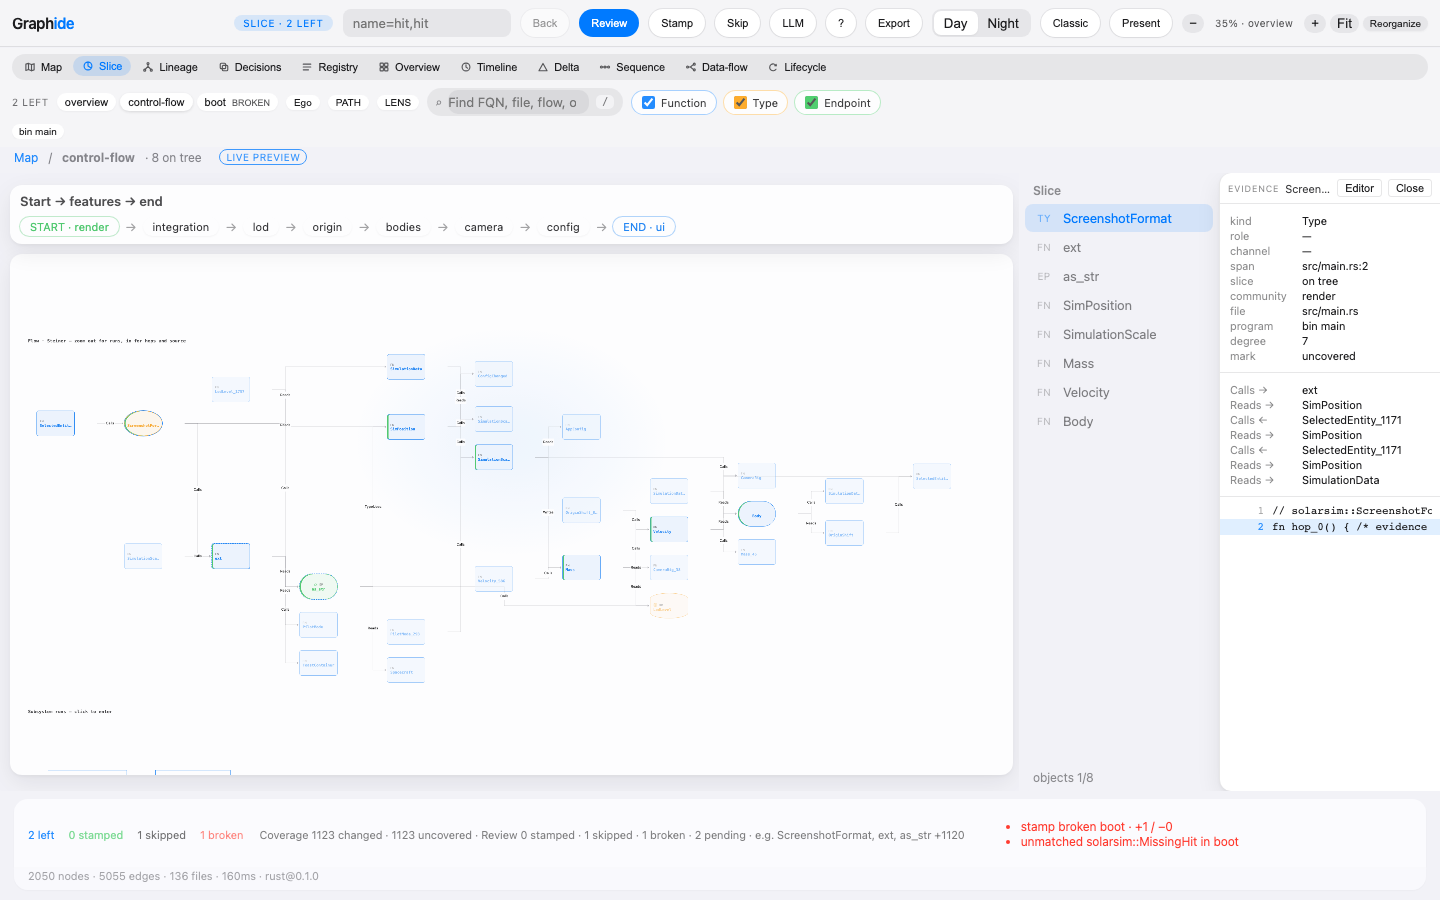
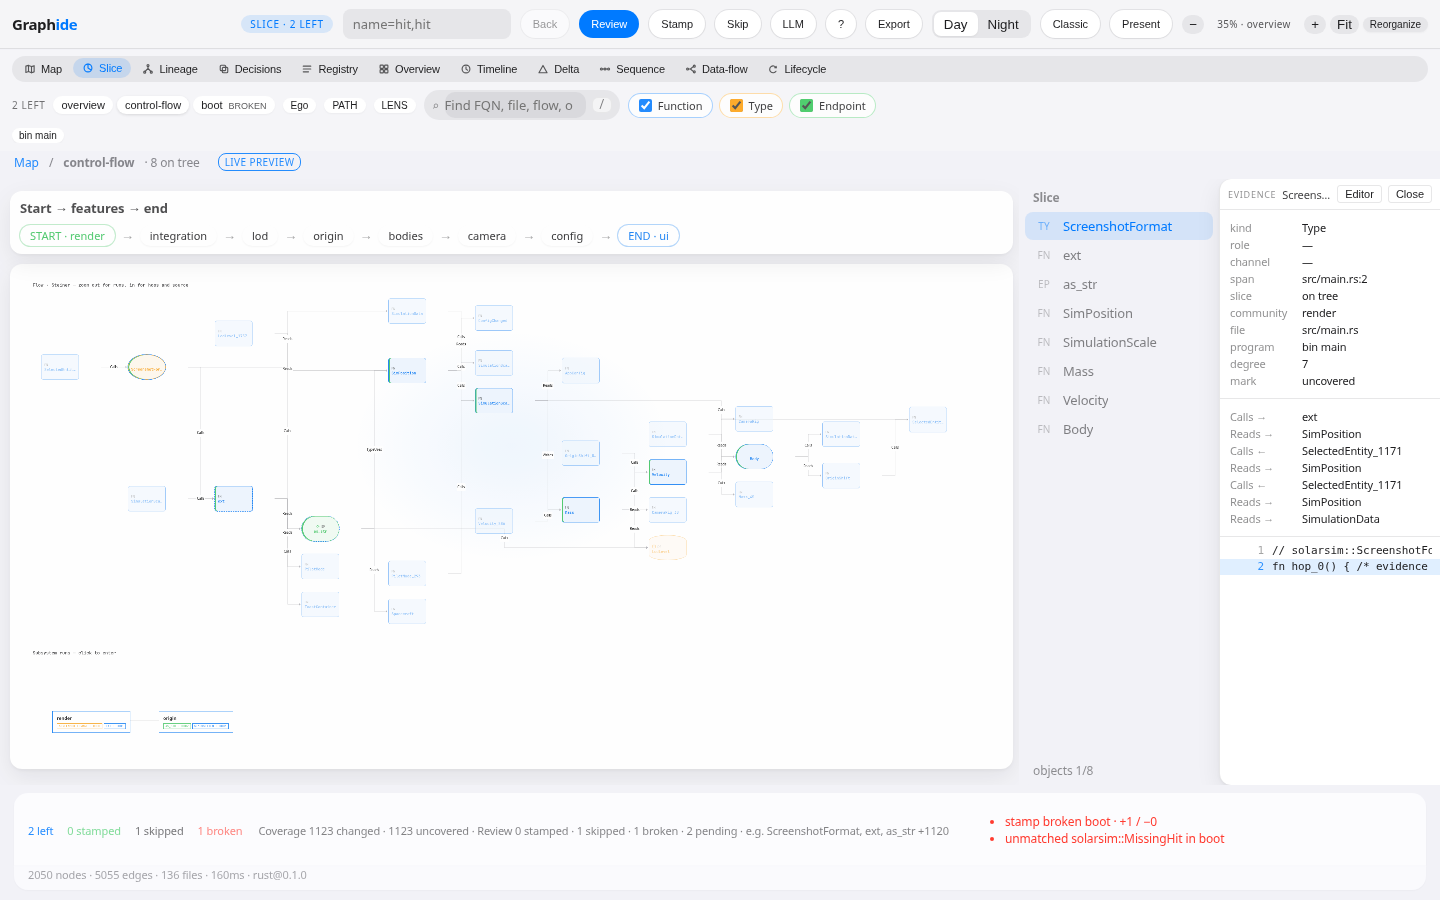
fix(slice): keep distance grey when Ego is off (#137)
* fix(slice): keep distance grey when Ego is off

Selecting a Slice node stamped the Ego class on its neighborhood, so
off-tree n12 jumped from 0.48 to full opacity. Stamp .ego only while
Ego is on. EG3e locks the ring.

* test(slice): record the select-grey proof from verify

EG3e keeps off-tree n12 at opacity 0.48 after selecting n0 with Ego off.

* test(slice): wait for subsystem runs to land before SR1b

The fit eases the camera. A 220ms read raced the last frames on the
pull_request runner, so the same SHA failed SR1b after the push run passed.

---------

diff --git a/scripts/verify-graphide.js b/scripts/verify-graphide.js
@@ -3500,7 +3500,29 @@ async function main() {
       );
     }
     await page.waitForSelector("#canvas .run[data-run], .chart .run", { timeout: 10000 });
-    await page.waitForTimeout(220);
+    // Fit eases the camera. A fixed 220ms read races the last frames on CI.
+    await page
+      .waitForFunction(
+        () => {
+          const stage = document.querySelector("#canvas .stage");
+          const sr = stage ? stage.getBoundingClientRect() : null;
+          const runs = [...document.querySelectorAll("#canvas .run[data-run], .chart .run")];
+          if (!sr || runs.length < 2) return false;
+          return runs.every((el) => {
+            const r = el.getBoundingClientRect();
+            return (
+              r.height >= 16 &&
+              r.top >= sr.top - 2 &&
+              r.bottom <= sr.bottom + 2 &&
+              r.left >= sr.left - 2 &&
+              r.right <= sr.right + 2
+            );
+          });
+        },
+        null,
+        { timeout: 4000 }
+      )
+      .catch(() => {});
     const srDesk = await page.evaluate(() => {
       const on = document.querySelector("#workspaces [data-ws].on");
       const tabOn = document.querySelector("#tabs .tab.on[data-flow]");
@@ -5659,7 +5681,9 @@ async function main() {
         return {
           lit: el.getAttribute("data-lit"),
           dist: el.getAttribute("data-dist"),
+          slice: el.getAttribute("data-slice-dist"),
           op: op(el),
+          ego: el.classList.contains("ego"),
           dim: el.classList.contains("ego-dim"),
         };
       };
@@ -5667,6 +5691,8 @@ async function main() {
         ego: !!(document.getElementById("egoBtn") && document.getElementById("egoBtn").classList.contains("on")),
         n2: read(document.querySelector('#sliceCanvas .vnode[data-id="n2"]')),
         n4: read(document.querySelector('#sliceCanvas .vnode[data-id="n4"]')),
+        n12: read(document.querySelector('#sliceCanvas .vnode[data-id="n12"]')),
+        n10: read(document.querySelector('#sliceCanvas .vnode[data-id="n10"]')),
       };
     });
     record(
@@ -5677,7 +5703,24 @@ async function main() {
         !!(selectFade.n4 && selectFade.n4.lit === "1" && selectFade.n4.dist === "2" && selectFade.n4.op >= 0.99),
       JSON.stringify(selectFade)
     );
+    record(
+      "EG3e",
+      "Selecting a Slice node with Ego off keeps off-tree neighbors in distance grey",
+      selectFade.ego === false &&
+        !!(
+          selectFade.n12 &&
+          selectFade.n12.lit === "0" &&
+          selectFade.n12.slice === "1" &&
+          selectFade.n12.ego === false &&
+          !selectFade.n12.dim &&
+          selectFade.n12.op <= 0.48 &&
+          selectFade.n12.op >= 0.4
+        ) &&
+        !!(selectFade.n10 && selectFade.n10.slice === "1" && selectFade.n10.ego === false && selectFade.n10.op <= 0.48),
+      JSON.stringify({ n12: selectFade.n12, n10: selectFade.n10 })
+    );
     await shot(page, "slice-select.png");
+    await shot(page, "slice-select-grey.png");
     await page.fill("#graphSearch", "ScreenshotFormat");
     await page.waitForTimeout(200);
     const sliceFindDim = await page.evaluate(() => {

diff --git a/extension/scripts/check-map.js b/extension/scripts/check-map.js
@@ -514,6 +514,8 @@ assert(driver.includes("route.png") && driver.includes("lens.png") && driver.inc
 assert(driver.includes("ego.png") && driver.includes("search.png") && driver.includes("EG1") && driver.includes("SG1") && driver.includes("EG5") && driver.includes("SG3"), "verify driver must drive Ego and Find on enter / Slice / Lineage");
 assert(driver.includes("EG3c") && driver.includes("slice-ego.png") && driver.includes('data-id="n0"') && driver.includes("n12"), "verify driver must prove Slice Ego beats distance grey on n12");
 assert(driver.includes("EG3d") && driver.includes("slice-select.png") && driver.includes('data-id="n2"'), "verify driver must prove Slice select does not fade the lit 2-hop walk");
+assert(driver.includes("EG3e") && driver.includes("slice-select-grey.png") && driver.includes('data-id="n12"') && driver.includes("n12.op <= 0.48"), "verify driver must prove Slice select keeps off-tree neighbors in distance grey");
+assert(chrome.includes("ego: !!(egoMode && onEgo)") && chrome.includes('classList.toggle("ego", !!(egoMode && onEgo))'), "selection must not stamp the Ego class while Ego is off");
 assert(driver.includes("SG4") && driver.includes("slice-find-dim.png") && driver.includes("SG2b") && driver.includes("ScreenshotFormat"), "verify driver must prove Find dims the off-tree ring");
 assert(!css.includes('.vnode[data-dist="2"] { opacity'), "selecting a node must not fade the 2-hop ring");
 assert(css.includes('#sliceCanvas .vnode[data-slice-dist="1"]:not(.ego):not(.ego-dim)') && css.includes('#sliceCanvas .vnode[data-slice-dist="2"]:not(.ego):not(.ego-dim)'), "Slice distance grey must not override Ego");

diff --git a/extension/media/main.js b/extension/media/main.js
@@ -23421,7 +23421,7 @@
         if (sid && id2) el2.setAttribute("data-dist", String(shownDist(sid, id2)));
         const onPath = pathSet.has(id2);
         el2.classList.toggle("selected", id2 === sid);
-        el2.classList.toggle("ego", onEgo);
+        el2.classList.toggle("ego", !!(egoMode && onEgo));
         el2.classList.toggle("on-path", onPath);
         el2.classList.toggle("ego-dim", !!(egoMode && sid && !onEgo && !onPath));
       });
@@ -23429,7 +23429,7 @@
         const a = el2.getAttribute("data-from"), b = el2.getAttribute("data-to");
         const incident = !!(sid && shownInSet(neighbors, a) && shownInSet(neighbors, b));
         const onPath = path.length > 1 && consecutiveOnPath(path, a, b);
-        el2.classList.toggle("ego", incident);
+        el2.classList.toggle("ego", !!(egoMode && incident));
         el2.classList.toggle("on-path", onPath);
         el2.classList.toggle("ego-dim", !!(egoMode && sid && !incident && !onPath));
       });
@@ -23459,7 +23459,7 @@
         dim: !match,
         hit: !!(graphFilter.q && match),
         selected: nid === sid,
-        ego: onEgo,
+        ego: !!(egoMode && onEgo),
         egoDim: !!(egoMode && sid && !onEgo && !onPath),
         dist: sid ? shownDist(sid, nid) : void 0
       };

diff --git a/extension/media/src/graph/desk.js b/extension/media/src/graph/desk.js
@@ -4340,7 +4340,7 @@ function applyEgoPaint() {
     if (sid && id) el.setAttribute("data-dist", String(shownDist(sid, id)));
     const onPath = pathSet.has(id);
     el.classList.toggle("selected", id === sid);
-    el.classList.toggle("ego", onEgo);
+    el.classList.toggle("ego", !!(egoMode && onEgo));
     el.classList.toggle("on-path", onPath);
     el.classList.toggle("ego-dim", !!(egoMode && sid && !onEgo && !onPath));
   });
@@ -4349,7 +4349,7 @@ function applyEgoPaint() {
       b = el.getAttribute("data-to");
     const incident = !!(sid && shownInSet(neighbors, a) && shownInSet(neighbors, b));
     const onPath = path.length > 1 && consecutiveOnPath(path, a, b);
-    el.classList.toggle("ego", incident);
+    el.classList.toggle("ego", !!(egoMode && incident));
     el.classList.toggle("on-path", onPath);
     el.classList.toggle("ego-dim", !!(egoMode && sid && !incident && !onPath));
   });
@@ -4386,7 +4386,7 @@ function graphNodePaint(id, extra) {
     dim: !match,
     hit: !!(graphFilter.q && match),
     selected: nid === sid,
-    ego: onEgo,
+    ego: !!(egoMode && onEgo),
     egoDim: !!(egoMode && sid && !onEgo && !onPath),
     dist: sid ? shownDist(sid, nid) : undefined,
   };

diff --git a/extension/media/main.css b/extension/media/main.css
@@ -2363,7 +2363,7 @@ html.bright .route-hop {
 #enterCanvas .vnode.grey[data-slice-dist="1"]:not(.ego):not(.ego-dim):not(.dim) { opacity: 0.56; }
 #enterCanvas .vnode.grey[data-slice-dist="2"]:not(.ego):not(.ego-dim):not(.dim) { opacity: 0.40; }
 #enterCanvas .vnode.grey[data-slice-dist="3"]:not(.ego):not(.ego-dim):not(.dim) { opacity: 0.28; }
-/* Find .dim beats distance grey and the selection-neighbor .ego paint. Ego-dim stays darker. */
+/* Find .dim beats distance grey. .ego is Ego-on only, so a selection does not lift the ring. Ego-dim stays darker. */
 #enterCanvas .vnode.dim:not(.ego-dim),
 #sliceCanvas .vnode.dim:not(.ego-dim),
 #lineageCanvas .vnode.dim:not(.ego-dim) { opacity: 0.18; }

diff --git a/.cursor/skills/verify-graphide/SKILL.md b/.cursor/skills/verify-graphide/SKILL.md
@@ -198,7 +198,9 @@ Run from the repo root. Every line must succeed before you claim the desk works.
      the other distance-1 nodes to at most 0.12 (`EG3c`,
      `verification/slice-ego.png`). Selecting `n0` with Ego off keeps
      lit `n2` / `n4` (`data-dist` 2) at full opacity (`EG3d`,
-     `verification/slice-select.png`)
+     `verification/slice-select.png`). Off-tree neighbor `n12`
+     (`data-slice-dist` 1) stays in distance grey at opacity 0.48
+     (`EG3e`, `verification/slice-select-grey.png`)
    - Kind filters: explorer Slice `#kindFilters input[data-kind]`
      Function / Type / Endpoint; uncheck Type (+ Endpoint) leaves
      Function only on `.vnode:not(.dim)` / `#ledgerGrid .cell`;

diff --git a/.cursor/skills/verify-graphide/references/features/ego.md b/.cursor/skills/verify-graphide/references/features/ego.md
@@ -82,7 +82,11 @@ Driver assertions:
   `verification/slice-ego.png`).
 - Selecting a Slice node with Ego off still stamps `data-dist`, but
   that must not fade the lit walk. `n2` and `n4` stay at opacity 1
-  (`EG3d`, `verification/slice-select.png`).
+  (`EG3d`, `verification/slice-select.png`). The same selection must
+  not lift the off-tree ring: `n12` stays `data-slice-dist` 1 at
+  opacity 0.48, without class `ego` (`EG3e`,
+  `verification/slice-select-grey.png`). `.ego` is stamped only while
+  Ego is on.
 - Do not add `data-component` / `data-testid`. `#egoBtn`, `#egoHops`,
   `.ego`, `.ego-dim`, `data-dist` are the hooks.
 - `applyEgoPaint` must keep classes on XYFlow `.vnode` after remount
